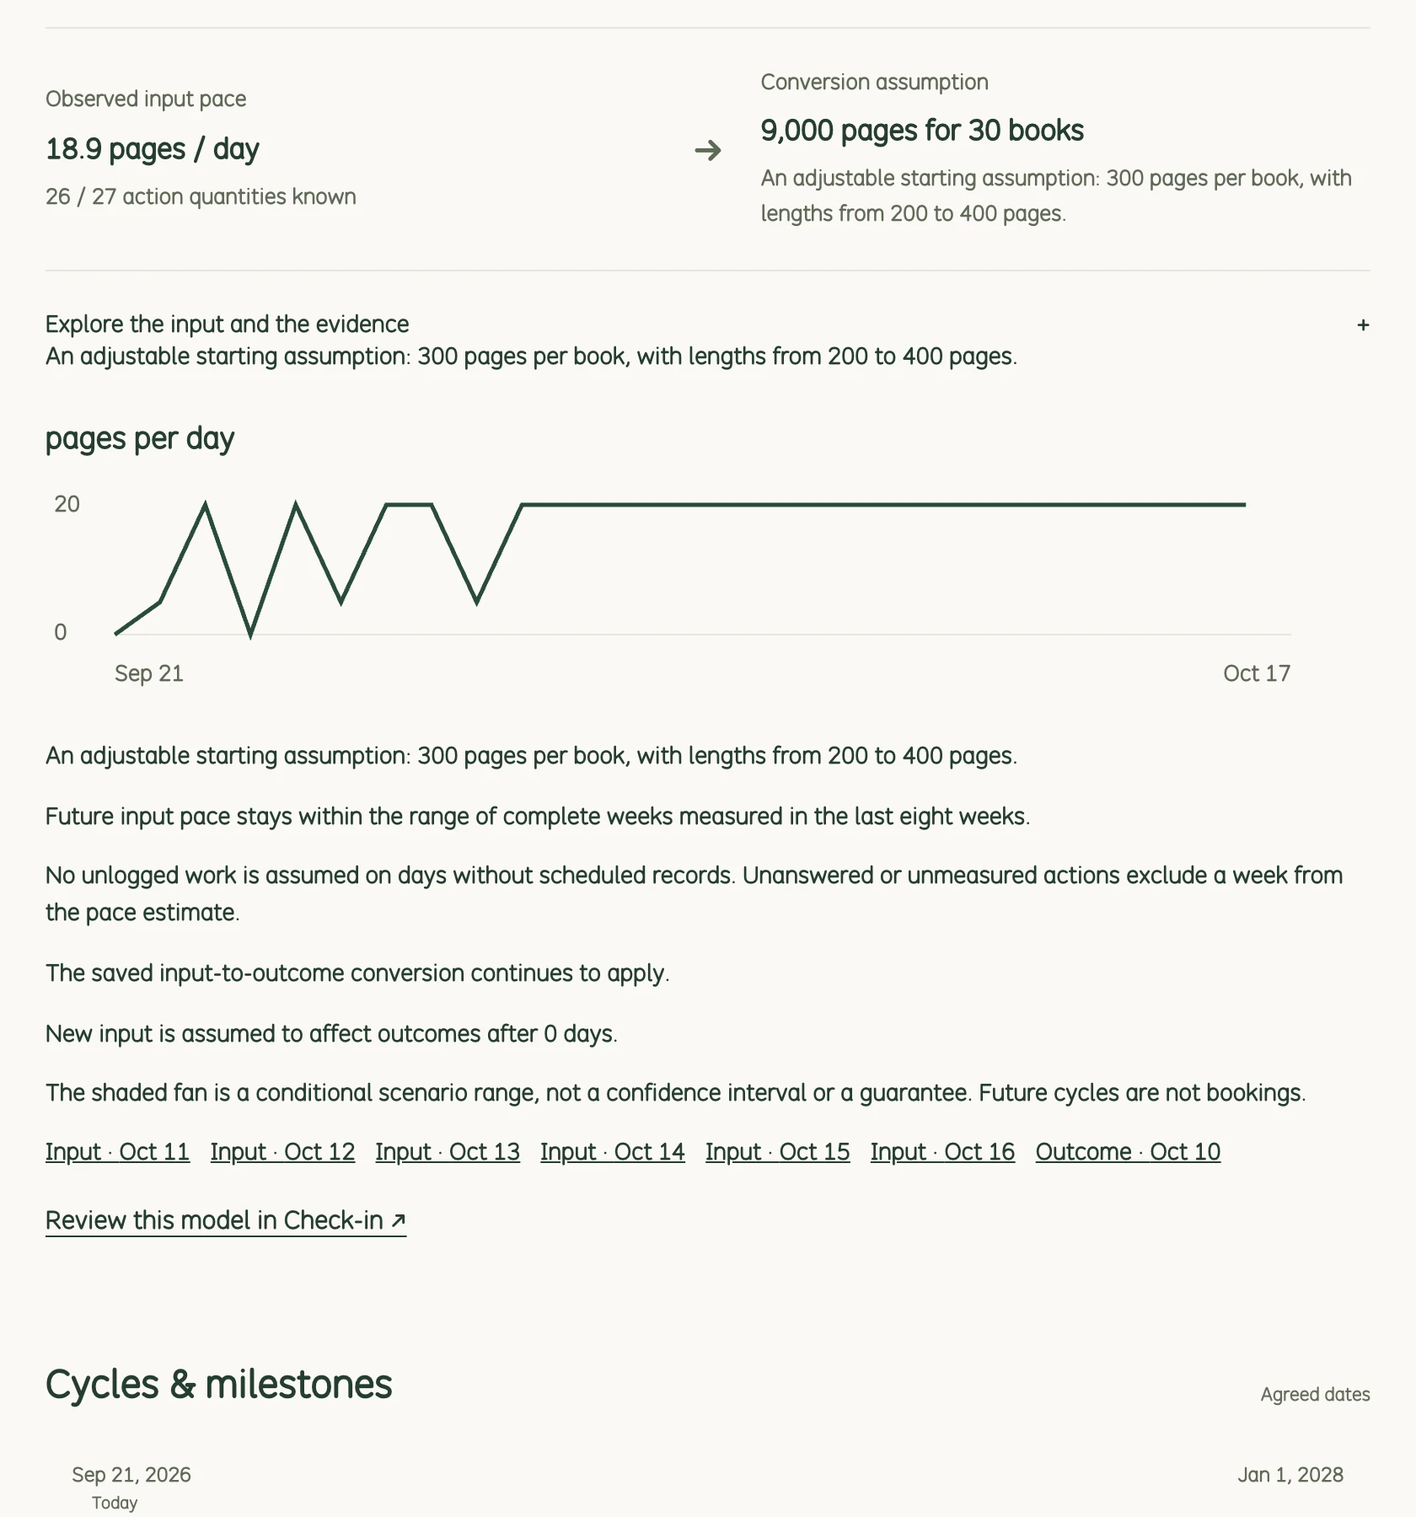
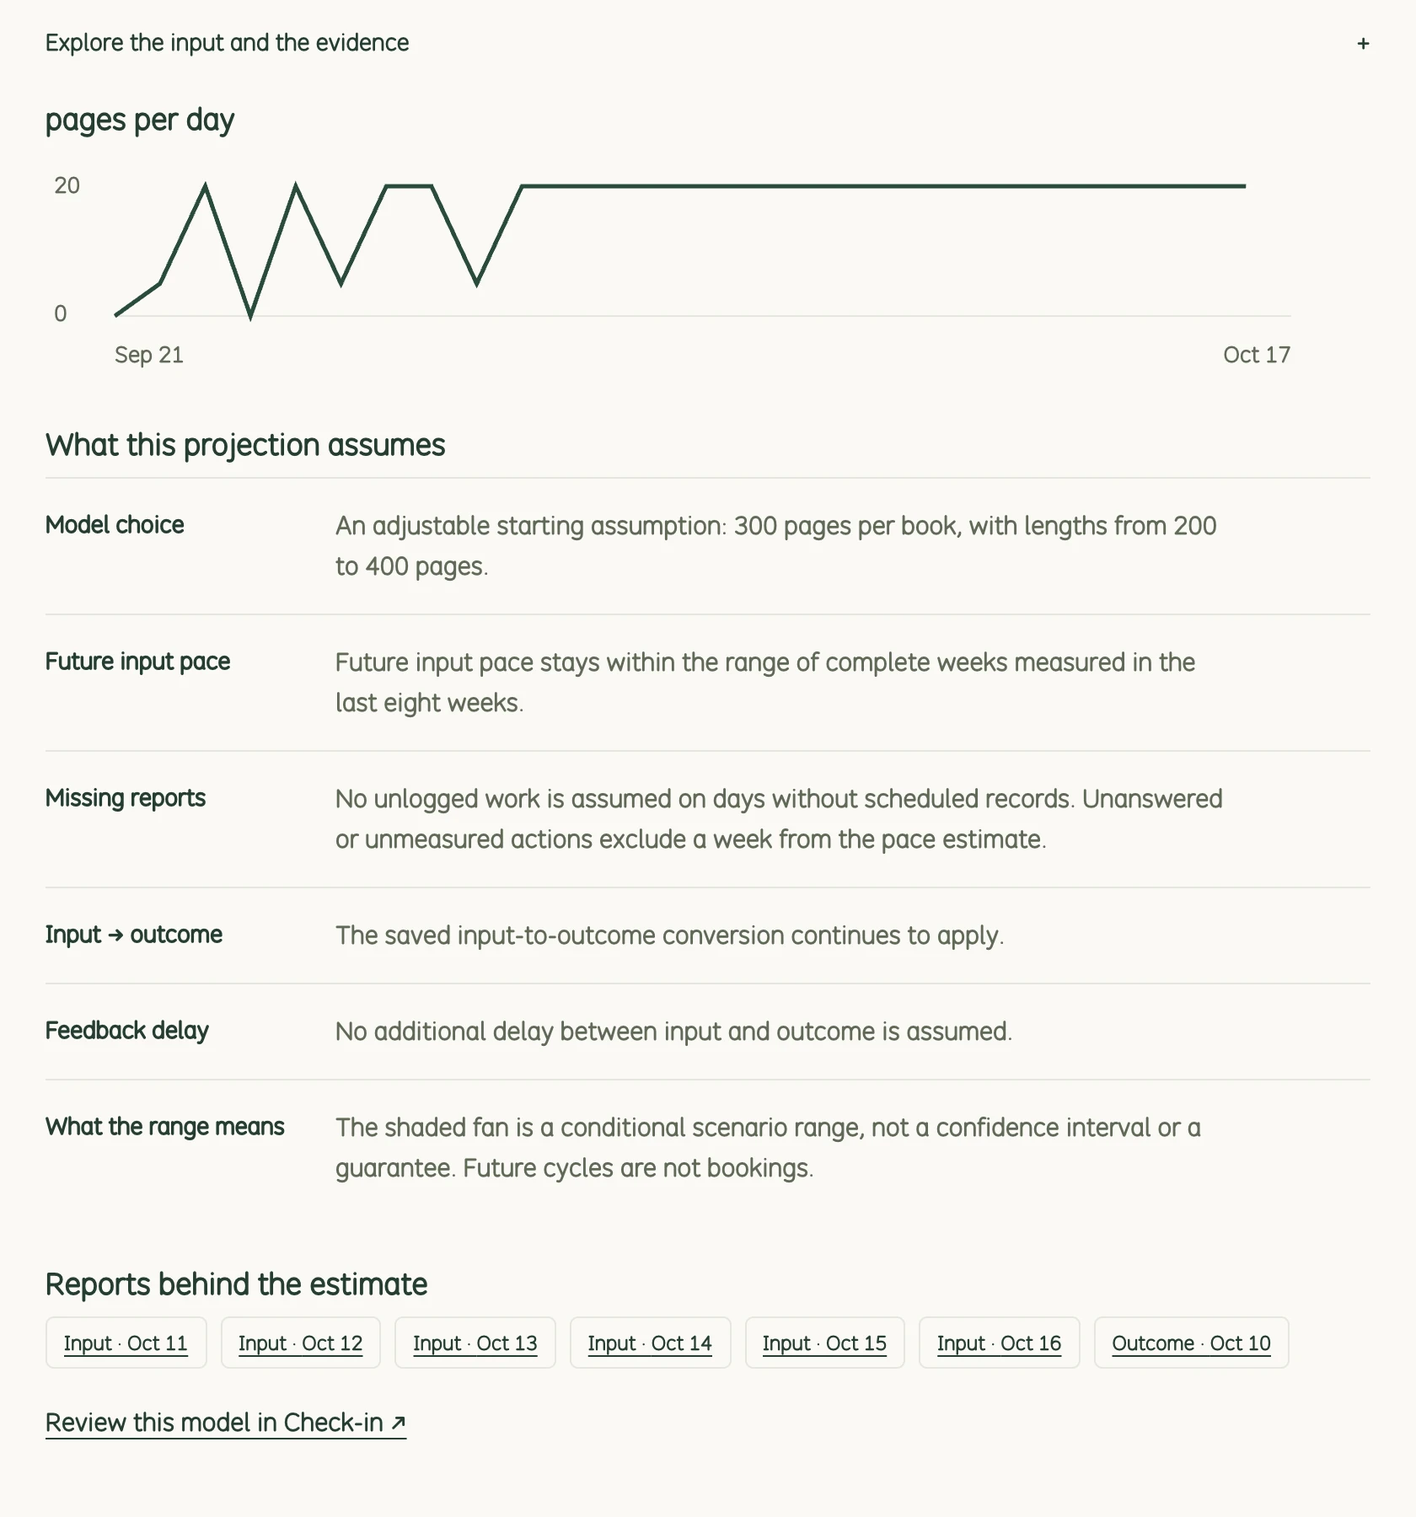
Clarify projection assumptions and apply personal coaching headline

diff --git a/src/GoalProjection.tsx b/src/GoalProjection.tsx
@@ -58,15 +58,20 @@ export function GoalProjection({ data, goal, today = dateInZone(data.timeZone) }
       <div><span>{evidence.model.kind === "direct" ? "Conversion assumption" : "Relationship being learned"}</span><strong>{evidence.model.kind === "direct" ? `${number(evidence.model.inputPerOutcome!.expected * model.target)} ${inputUnit} for ${number(model.target)} ${goal.measure!.unit}` : projection ? `${number(projection.yieldRange.expected)} ${goal.measure!.unit} / ${inputUnit}` : "Waiting for paired observations"}</strong><small>{evidence.model.kind === "learned" ? `${evidence.pairs.length} matched intervals · ${evidence.model.feedbackDelayDays}-day feedback delay` : evidence.model.rationale}</small></div>
     </div>}
     {evidence && <details className="projection-evidence"><summary>Explore the input and the evidence <span>+</span></summary>
-      <p>{evidence.model.rationale}</p>
+      {!projection && <p>{evidence.model.rationale}</p>}
       <div className="input-evidence-plot"><h3>{inputUnit} per day</h3><svg viewBox="0 0 760 130" role="img" aria-label={`Measured ${inputUnit} per day. Missing quantities leave gaps.`}>
         {(() => { const max = Math.max(1, ...evidence.daily.map(d => d.amount ?? 0)); const cx = (i: number) => 40 + i / Math.max(1, evidence.daily.length - 1) * 680; const cy = (v: number) => 95 - v / max * 75; return <><text x="5" y="24">{number(max)}</text><text x="5" y="98">0</text><line x1="40" x2="720" y1="95" y2="95" className="outcome-grid"/><path className="outcome-recorded" d={evidence.daily.map((d, i) => d.amount === null ? "" : `${i && evidence.daily[i - 1].amount !== null ? "L" : "M"}${cx(i)},${cy(d.amount)}`).join(" ")} /><text x="40" y="122">{formatDate(evidence.daily[0]?.date ?? today)}</text><text x="720" y="122" textAnchor="end">{formatDate(today)}</text></>; })()}
       </svg></div>
       {evidence.model.kind === "learned" && evidence.pairs.length > 0 && <div className="input-evidence-plot"><h3>Observed input → outcome</h3><svg viewBox="0 0 760 180" role="img" aria-label={`Association between ${inputUnit} and ${goal.measure!.unit} in matched intervals. Not proof of causation.`}>
         {(() => { const maxX = Math.max(1, ...evidence.pairs.map(p => p.input)), maxY = Math.max(1, ...evidence.pairs.map(p => p.outcome)); return <><text x="40" y="18">{goal.measure!.unit}</text><text x="30" y="39" textAnchor="end">{number(maxY)}</text><text x="30" y="143" textAnchor="end">0</text><line x1="40" x2="720" y1="140" y2="140" className="outcome-grid"/><text x="40" y="158">0</text><text x="690" y="158" textAnchor="middle">{number(maxX)}</text><text x="720" y="170" textAnchor="end">{inputUnit} →</text>{evidence.pairs.map(p => <circle className="outcome-point" key={p.end} cx={40 + 650 * p.input / maxX} cy={140 - 105 * p.outcome / maxY} r="5"><title>{p.start}–{p.end}: {number(p.input)} {inputUnit} → {number(p.outcome)} {goal.measure!.unit}</title></circle>)}</>; })()}
       </svg><p>These intervals can differ in duration and circumstances. Their observed return guides a scenario; it does not isolate the effect of your work.</p></div>}
-      {projection?.assumptions.map(note => <p key={note}>{note}</p>)}
-      <div className="projection-source-links">{evidence.sourceIds.slice(-6).map(id => <Link key={id} to={recordLink(data, id)!}>Input · {formatDate(data.actions.find(a => a.id === id)!.date)}</Link>)}{model.observations.slice(-3).map(r => <Link key={r.id} to={recordLink(data, r.id)!}>Outcome · {formatDate(r.date)}</Link>)}</div>
+      {projection && <section className="projection-assumptions" aria-label="Projection assumptions">
+        <h3>What this projection assumes</h3>
+        <dl>{projection.assumptions.map(note => <div key={note.label}><dt>{note.label}</dt><dd>{note.text}</dd></div>)}</dl>
+      </section>}
+      <div className="projection-sources"><h3>Reports behind the estimate</h3>
+        <div className="projection-source-links">{evidence.sourceIds.slice(-6).map(id => <Link key={id} to={recordLink(data, id)!}>Input · {formatDate(data.actions.find(a => a.id === id)!.date)}</Link>)}{model.observations.slice(-3).map(r => <Link key={r.id} to={recordLink(data, r.id)!}>Outcome · {formatDate(r.date)}</Link>)}</div>
+      </div>
     </details>}
     <Link className="text-link" to={`/app/check-in?goal=${goal.id}&prompt=${encodeURIComponent("Let’s review the input I can control, its relationship to this goal, and the projection assumptions.")}`}>Review this model in Check-in ↗</Link>
   </section>;

diff --git a/shared/goal-projection.ts b/shared/goal-projection.ts
@@ -96,10 +96,12 @@ export function goalProjection(data: Data, goal: Goal, today: string) {
   });
   return { ...base, status: model.kind === "direct" ? "Input-based projection" : pairs.length < 3 ? "Early observed association" : "Observed association", evidence,
     projection: { origin, horizon, points, expectedDate, earliestDate, latestDate, yieldRange,
-      assumptions: [model.rationale,
-        paceSource === "Provisional input pace" ? "Until two complete weeks are measured, the saved input budget is a scenario, with half to one-and-a-half times that pace." : "Future input pace stays within the range of complete weeks measured in the last eight weeks.",
-        "No unlogged work is assumed on days without scheduled records. Unanswered or unmeasured actions exclude a week from the pace estimate.",
-        model.kind === "direct" ? "The saved input-to-outcome conversion continues to apply." : pairs.length < 3 ? "With fewer than three matched intervals, the return scenario runs from zero to twice the observed return. This is a sensitivity range, not a calibrated probability." : "Future return stays within the observed range across matched intervals; association does not establish cause.",
-        model.kind === "learned" ? "The scenario continues the observed input pipeline. Feedback delay aligns past inputs with outcomes; it does not restart at each outcome report." : `New input is assumed to affect outcomes after ${model.feedbackDelayDays} days.`,
-        "The shaded fan is a conditional scenario range, not a confidence interval or a guarantee. Future cycles are not bookings."] } };
+      assumptions: [
+        { label: "Model choice", text: model.rationale },
+        { label: "Future input pace", text: paceSource === "Provisional input pace" ? "Until two complete weeks are measured, the saved input budget is a scenario, with half to one-and-a-half times that pace." : "Future input pace stays within the range of complete weeks measured in the last eight weeks." },
+        { label: "Missing reports", text: "No unlogged work is assumed on days without scheduled records. Unanswered or unmeasured actions exclude a week from the pace estimate." },
+        { label: "Input → outcome", text: model.kind === "direct" ? "The saved input-to-outcome conversion continues to apply." : pairs.length < 3 ? "With fewer than three matched intervals, the return scenario runs from zero to twice the observed return. This is a sensitivity range, not a calibrated probability." : "Future return stays within the observed range across matched intervals; association does not establish cause." },
+        { label: "Feedback delay", text: model.kind === "learned" ? "The scenario continues the observed input pipeline. Feedback delay aligns past inputs with outcomes; it does not restart at each outcome report." : model.feedbackDelayDays === 0 ? "No additional delay between input and outcome is assumed." : `New input is assumed to affect outcomes after ${model.feedbackDelayDays} days.` },
+        { label: "What the range means", text: "The shaded fan is a conditional scenario range, not a confidence interval or a guarantee. Future cycles are not bookings." },
+      ] } };
 }

diff --git a/src/goal-progress.css b/src/goal-progress.css
@@ -34,8 +34,14 @@
 .projection-evidence p { max-width: 800px; line-height: 1.7; }
 .input-evidence-plot { max-width: 780px; margin: 26px 0; }
 .input-evidence-plot h3 { font-size: 13px; }
-.projection-source-links { display: flex; flex-wrap: wrap; gap: 12px; }
-.projection-source-links a { text-decoration: underline; }
+.projection-assumptions { margin: 30px 0; }
+.projection-assumptions h3, .projection-sources h3 { font-size: 16px; margin: 0 0 16px; }
+.projection-assumptions dl { margin: 0; }
+.projection-assumptions dl > div { display: grid; grid-template-columns: 150px minmax(0, 1fr); gap: 22px; padding: 16px 0; border-top: 1px solid var(--line); }
+.projection-assumptions dt { font-size: 14px; font-weight: 650; line-height: 1.6; }
+.projection-assumptions dd { margin: 0; max-width: 62ch; font-size: 15px; line-height: 1.6; color: var(--muted); }
+.projection-source-links { display: flex; flex-wrap: wrap; gap: 8px; }
+.projection-source-links a { padding: 7px 10px; border: 1px solid var(--line); border-radius: 5px; font-size: 12px; text-decoration: underline; text-underline-offset: 3px; }
 .goal-overview-disclosure { padding: 18px 0; border-block: 1px solid var(--line); margin: 20px 0; font-size: 13px; }
 .goal-overview-disclosure > summary { display: flex; justify-content: space-between; }
 .goal-table-scroll { overflow-x: auto; }
@@ -79,4 +85,6 @@
   .outcome-timeline { margin-inline: 3px; }
   .input-outcome-link { grid-template-columns: 1fr; gap: 10px; }
   .input-outcome-link .relation-arrow { transform: rotate(90deg); justify-self: start; }
+  .projection-assumptions { margin: 24px 0; }
+  .projection-assumptions dl > div { grid-template-columns: 1fr; gap: 6px; padding: 12px 0; }
 }

diff --git a/tests/goal-projection.test.ts b/tests/goal-projection.test.ts
@@ -61,7 +61,7 @@ test("missing quantity is unknown even when an action was done, and a budget is 
   assert.equal(result.evidence!.measured, 0);
   assert.ok(result.evidence!.daily.every(day => day.amount === null));
   assert.equal(result.evidence!.paceSource, "Provisional input pace");
-  assert.ok(result.projection!.assumptions.some(note => note.includes("half to one-and-a-half")));
+  assert.ok(result.projection!.assumptions.some(note => note.text.includes("half to one-and-a-half")));
 });
 
 test("revenue has no invented hours-to-money factor; paired reports create a tentative observed return", () => {
@@ -81,7 +81,7 @@ test("revenue has no invented hours-to-money factor; paired reports create a ten
   assert.equal(result.evidence!.pairs.length, 3);
   assert.equal(result.projection!.yieldRange.expected, 250 / 19);
   assert.ok(result.evidence!.pairs.every(pair => pair.sourceIds.length > 2));
-  assert.ok(result.projection!.assumptions.some(note => note.includes("association does not establish cause")));
+  assert.ok(result.projection!.assumptions.some(note => note.text.includes("association does not establish cause")));
   const context = coachingContext(data, goal.id, "Review the relationship", today);
   assert.equal(context.goalProjection!.projection!.yieldRange.expected, 250 / 19);
 });

diff --git a/scripts/capture-landing.ts b/scripts/capture-landing.ts
@@ -90,7 +90,7 @@ for (const size of [{ name: 'desktop', width: 1000, height: 900 }, { name: 'mobi
       await page.addStyleTag({ content: '.app-sidebar, .app-topbar, .mobile-nav { display: none !important; } .app-body { margin-left: 0 !important; }' });
       await page.locator('.goal-projection').evaluate(element => window.scrollTo({ top: element.getBoundingClientRect().top + scrollY - 16, behavior: 'instant' }));
     }
-    if (screen.name === 'progress') await page.locator('.input-outcome-link').evaluate(element => window.scrollTo({ top: element.getBoundingClientRect().top + scrollY - 16, behavior: 'instant' }));
+    if (screen.name === 'progress') await page.locator('.projection-evidence').evaluate(element => window.scrollTo({ top: element.getBoundingClientRect().top + scrollY - 16, behavior: 'instant' }));
     if (screen.name === 'insights') await page.locator('.learning-loop[open] .learning-canvas').evaluate(element => window.scrollTo({ top: element.getBoundingClientRect().top + scrollY - 16, behavior: 'instant' }));
     await page.waitForTimeout(150);
     await capture(`${screen.name}-${size.name}-detail`);

diff --git a/tests/input-outcome-ui.spec.ts b/tests/input-outcome-ui.spec.ts
@@ -42,6 +42,11 @@ test("goal attainment has a full-horizon fan and its measured input evidence, se
   expect(whiskers.at(-1)).toMatch(/100–100% of goal/);
   await chart.getByText("Explore the input and the evidence").click();
   await expect(chart.getByRole("img", { name: /Measured pages per day/ })).toBeVisible();
+  const assumptions = chart.getByRole("region", { name: "Projection assumptions" });
+  await expect(assumptions.getByRole("heading")).toHaveText("What this projection assumes");
+  await expect(assumptions.locator("dt")).toContainText(["Model choice", "Future input pace", "Missing reports", "Input → outcome", "Feedback delay", "What the range means"]);
+  await expect(assumptions).toContainText("No additional delay between input and outcome is assumed.");
+  await expect(assumptions).toContainText("not a confidence interval or a guarantee");
   await page.setViewportSize({ width: 390, height: 844 });
   await expect(chart.locator(".outcome-timeline svg")).toHaveAttribute("viewBox", "0 0 400 295");
   expect((await chart.locator(".outcome-timeline svg").boundingBox())!.height).toBeGreaterThan(200);

diff --git a/tests/coach-redesign.spec.ts b/tests/coach-redesign.spec.ts
@@ -170,7 +170,7 @@ test("landing keeps the floating scroll hero, five chapters, shared goal plan, a
   await page.setViewportSize({ width: 1440, height: 1000 });
   await page.goto("/");
   await expect(page.locator(".journey-hero")).toHaveAttribute("data-scene", "intro");
-  await expect(page.locator("h1")).toHaveText("Reach your goals with a system that learns with you.");
+  await expect(page.locator("h1")).toHaveText("Reach your goals with a system that understands you.");
   await expect(page.locator(".hero-intro-v2 > p")).toContainText("behavioural science and your check-ins");
   await expect(page.locator(".focus-chapter")).toHaveCount(5);
   await expect(page.getByText("A clear next step.", { exact: true })).toHaveCount(0);

diff --git a/tests/journey.spec.ts b/tests/journey.spec.ts
@@ -298,7 +298,7 @@ test("the simplified journey works on a phone with accessible disclosure control
 
 test("the landing uses Adler Warm and five focused chapters on desktop and mobile", async ({ page }) => {
   await page.goto("/");
-  await expect(page.locator(".journey-hero h1")).toHaveText("Reach your goals with a system that learns with you.");
+  await expect(page.locator(".journey-hero h1")).toHaveText("Reach your goals with a system that understands you.");
   const typography = await page.locator(".journey-hero h1, .chapter-copy h2, .mountain-finale h2").evaluateAll(elements =>
     elements.map(el => ({ family: getComputedStyle(el).fontFamily, weight: getComputedStyle(el).fontWeight })),
   );

diff --git a/tests/adler.spec.ts b/tests/adler.spec.ts
@@ -8,7 +8,7 @@ test("landing demonstrates goal progress and opens an empty signed-in workspace"
   page,
 }) => {
   await page.goto("/");
-  await expect(page.locator("h1")).toHaveText("Reach your goals with a system that learns with you.");
+  await expect(page.locator("h1")).toHaveText("Reach your goals with a system that understands you.");
   await expect(page.locator(".app-capture-window .capture-still img")).toHaveCount(4);
   await expect(page.locator("#step-4 figcaption")).toContainText("Actual app · Example workspace");
   await expect(page.locator("#step-5")).toContainText("Coming soon");

diff --git a/index.html b/index.html
@@ -6,7 +6,7 @@
     <meta name="theme-color" content="#203c32" />
     <meta
       name="description"
-      content="Reach your goals with a system that learns with you. Adler turns your goals into manageable actions, then uses behavioural science and your check-ins to adapt the system as you go."
+      content="Reach your goals with a system that understands you. Adler turns your goals into manageable actions, then uses behavioural science and your check-ins to adapt the system as you go."
     />
     <meta
       property="og:title"

diff --git a/src/LandingHero.tsx b/src/LandingHero.tsx
@@ -88,7 +88,7 @@ export function LandingHero() {
       <div className="hero-sticky">
         <div className="hero-intro-v2">
           <h1>
-            Reach your goals with a system <em>that learns with you.</em>
+            Reach your goals with a system <em>that understands you.</em>
           </h1>
           <p>
             Adler turns your goals into manageable actions, then uses behavioural

diff --git a/docs/research/landing-headline-copy.md b/docs/research/landing-headline-copy.md
@@ -1,0 +1,37 @@
+# Landing headline copy
+
+Researched 7 September 2026. This note recommends copy; it does not record an A/B test or a measured conversion result.
+
+## Recommendation
+
+Use the user's proposed headline:
+
+> Reach your goals with a system that understands you.
+
+Keep the existing subheadline:
+
+> Adler turns your goals into manageable actions, then uses behavioural science and your check-ins to adapt the system as you go.
+
+This is an editorial recommendation informed by the guidance below. The headline leads with the desired outcome, then makes personal fit the reason to consider Adler. The subheadline explains the actual work: actions, check-ins and adaptation. Together they carry both the benefit and the mechanism without asking the headline to explain the whole product.
+
+“Understands you” is a warmer and clearer expression of personal relevance than the current “learns with you,” which leaves the object of learning ambiguous. It is still broad: the surrounding demonstration must make that understanding concrete through reported circumstances and changes to the plan. Under the [Adler Method](../method/adler-method.md), it means learning from the user's reports and revising tentative explanations. It does not mean already knowing the person, inferring a diagnosis or proving a personality trait.
+
+## Guidance behind the choice
+
+- **Explain the offer and its value immediately.** Nielsen Norman Group recommends a concise, descriptive homepage tagline that communicates what the service does, what users can accomplish and why its offering is relevant. Its guidance also calls for representative examples. For Adler, the headline/subheadline pair and real app demonstration should be assessed together. [Homepage Design: 5 Fundamental Principles](https://www.nngroup.com/articles/homepage-design-principles/)
+- **Put useful information first.** NN/g's later eye-tracking research continues to find substantial scanning behavior. It recommends front-loading information, clear headings and plain language. Keeping “Reach your goals” first gives the reader an immediate purpose; the second clause supplies the distinction. This application is our interpretation, not a comparison the researchers tested. [How People Read Online: New and Old Findings](https://www.nngroup.com/articles/how-people-read-online/)
+- **Prefer concrete, restrained claims.** Morkes and Nielsen's original controlled writing study compared concise, scannable and objective prose with promotional writing. Its usability findings support avoiding inflated language; they do not establish that one Adler headline will attract more customers. [Concise, Scannable, and Objective](https://www.nngroup.com/articles/concise-scannable-and-objective-how-to-write-for-the-web/)
+- **Use familiar words and active phrasing.** GOV.UK's writing guidance recommends the user's language, specific explanations, short sentences and active voice. It is government service guidance, so we transfer its clarity principles rather than treating its tone as a marketing template. [Use clear language](https://guidance.publishing.service.gov.uk/writing-to-gov-uk-standards/writing-guidelines/clear-language/)
+
+## Two alternatives
+
+| Headline | Tradeoff |
+| --- | --- |
+| Reach your goals with a system built around you. | Plain and direct about personal fit. Less expressive about continuing to learn, which the existing subheadline explains. |
+| Reach your goals with a system that adapts to your life. | Most explicit about observable product behavior. Less personal than “understands you,” but directly supported by changing actions and schedules. |
+
+The user's proposal is the preferred brand expression. The second alternative is the clearest functional expression. No source reviewed establishes a winning phrase or an optimal word count for this product.
+
+## Comprehension check
+
+Before interpreting a signup-rate difference, ask prospective users what Adler does, how the system becomes personal, and what they would need to contribute. They should describe goals becoming actions and check-ins informing changes. If “understands you” creates an expectation of instant knowledge or general emotional companionship, the headline needs the more explicit adaptation wording. This is a proposed check, not research already conducted with Adler users.
